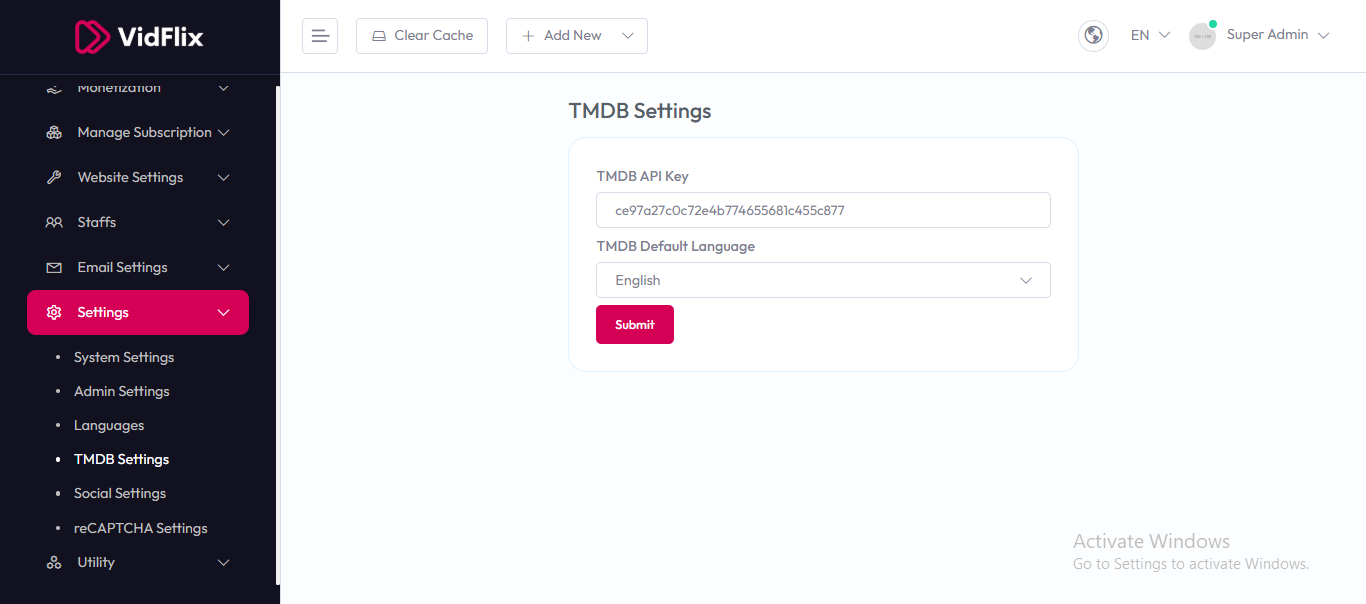
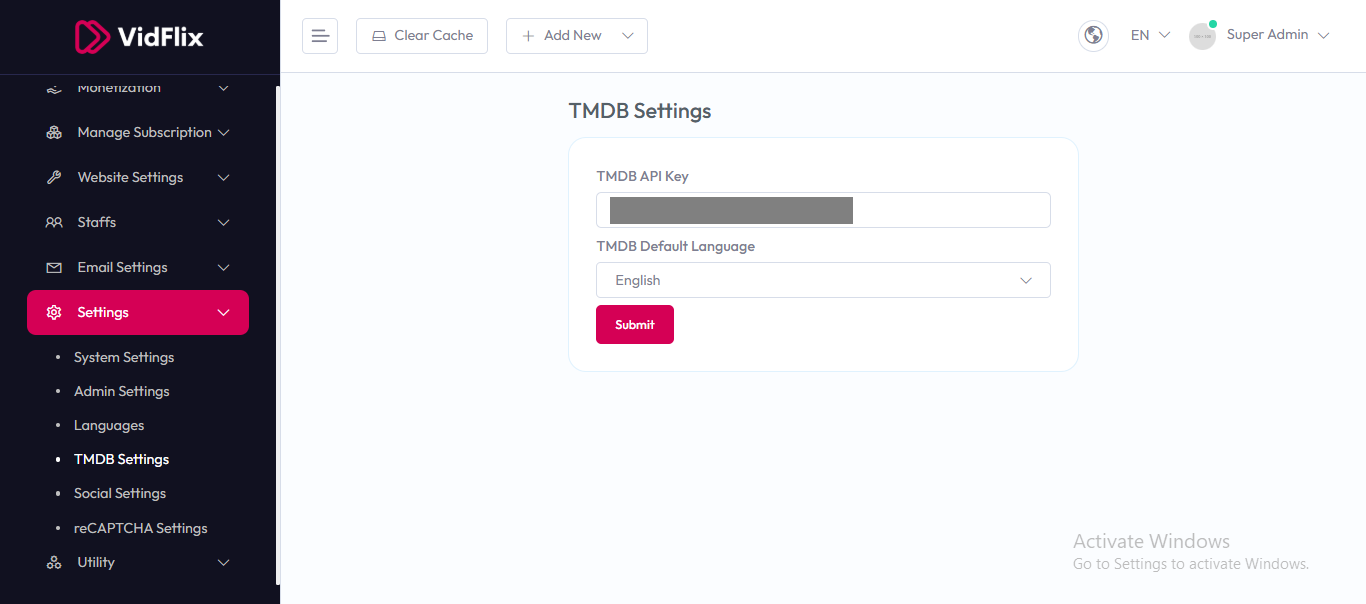
tmdb

Changed region(s): [[0.4305, 0.3278, 0.6457, 0.3874]]

diff --git a/docs/vidflix-usage/tmdb-settings.md b/docs/vidflix-usage/tmdb-settings.md
@@ -19,3 +19,26 @@ To configure **TMDB (The Movie Database) Settings**, follow these steps:
 After entering the details, click the **Submit** button to save settings.  
 
 ![TMDB Settings](../assets/vidflix_images/setup/tmdb-settings.png)
+
+---
+
+## How to Get a TMDB Account and API Key
+
+To use TMDB services, you need an account and API key. Follow these steps:
+
+1. Go to the official website: [https://www.themoviedb.org](https://www.themoviedb.org).  
+2. Click **Sign Up** and create a free account.  
+3. After logging in, go to your **Settings** > **API** section.  
+4. Click on **Create** or **Request an API Key**.  
+5. Choose **Developer** for personal or testing use, or **Commercial** if you plan to use it in a business project.  
+6. Fill in the required details and submit the request.  
+7. Once approved, your **API Key** will be visible in your account dashboard.  
+
+Copy this key and paste it into the **TMDB API Key** field in your system settings.  
+
+---
+
+:::tip
+If you want to test your TMDB API key, you can try it in your browser with this URL:  
+`https://api.themoviedb.org/3/movie/popular?api_key=YOUR_API_KEY`
+:::

diff --git a/docs/vidflix-usage/tmdb-importer.md b/docs/vidflix-usage/tmdb-importer.md
@@ -1,0 +1,19 @@
+---
+title: TMDB Importer
+sidebar_label: TMDB Importer
+---
+
+# TMDB Importer
+
+To use the **TMDB Importer**, follow these steps:
+
+1. From the left sidebar, go to **TMDB Importer**.  
+2. Select the language from the dropdown (e.g., English).  
+3. Select the type from the dropdown (e.g., Movies by Title).  
+4. Enter the movie/TV show title or keywords in the input field.  
+5. Optionally, enter the page number (e.g., 5).  
+6. Click the **Fetch** button to retrieve the data.
+
+The list of imported movies/TV shows will be shown in the area below.
+
+![TMDB Importer](../assets/vidflix_images/setup/tmdb-importer.png)
